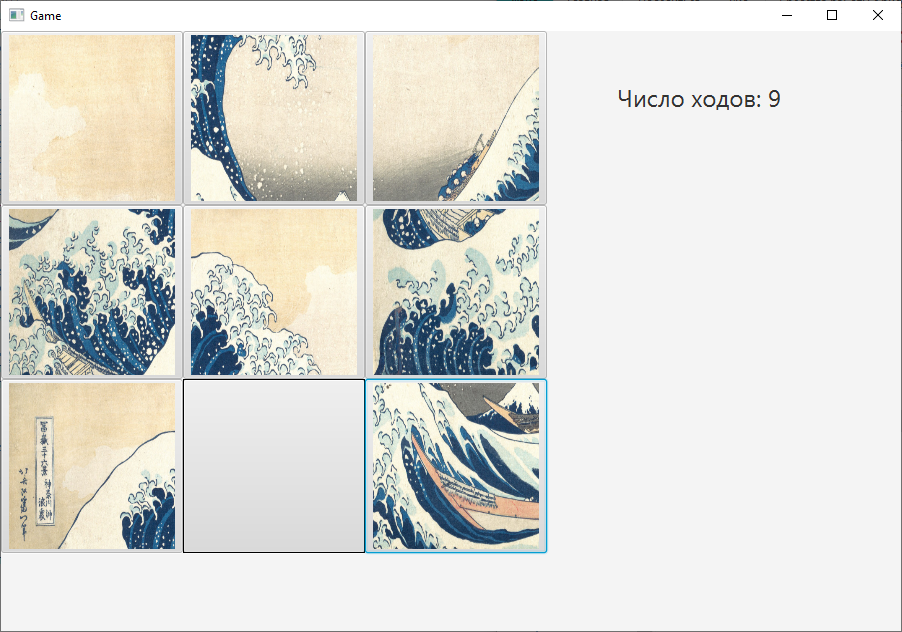
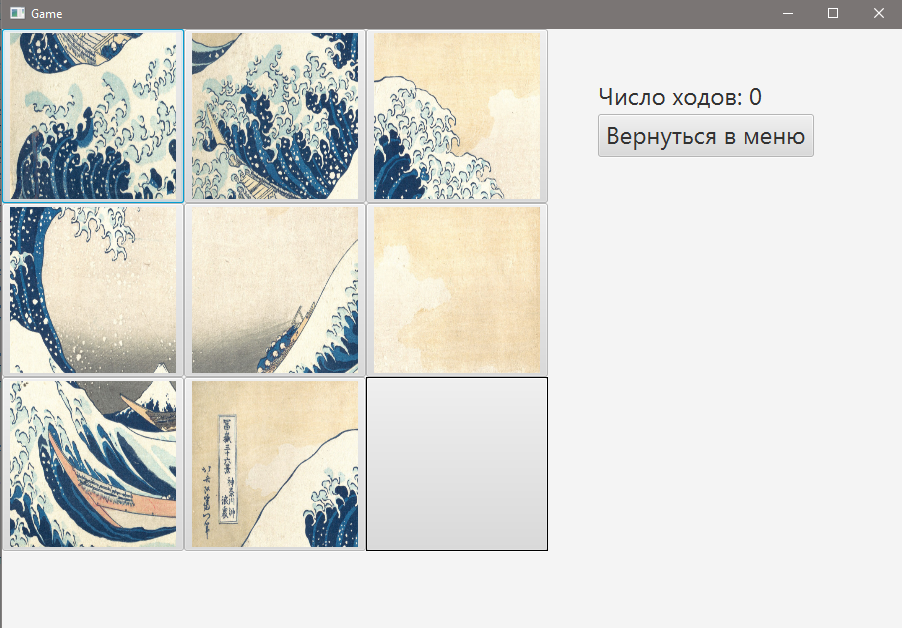
Add a move of several tiles at once & back button

diff --git a/src/finalproject/FinalProject.java b/src/finalproject/FinalProject.java
@@ -1,6 +1,7 @@
 
 package finalproject;
 
+import java.awt.Point;
 import javafx.application.Application;
 import javafx.scene.Scene;
 import javafx.scene.layout.*;
@@ -18,31 +19,38 @@ import java.util.TreeSet;
 import javafx.scene.control.TableView;
 import javafx.scene.control.TableColumn;
 import javafx.scene.control.cell.PropertyValueFactory;
+import javafx.scene.image.Image;
+import javafx.scene.image.PixelReader;
+import javafx.scene.image.WritableImage;
+import javafx.scene.image.ImageView;
 
 public class FinalProject extends Application {
-    public static GridPane game = new GridPane();
-    public static HBox root = new HBox(20);
-    public static VBox settings = new VBox(20);
-    public static VBox gameMenu = new VBox(20);
-    public static VBox score = new VBox(20);
-    private static int columns=3;//задаем кол-во столбцов
-    private static int rows = 3;//задаем кол-во строк
+    public static VBox menu = new VBox();//главное меню игры
+    public static GridPane gameField = new GridPane();//поле игры
+    public static VBox gameMenu = new VBox(20);//панель меню в игре
+    public static HBox game = new HBox(20);//игра
+    public static VBox settings = new VBox(20);//настройки
+    public static VBox score = new VBox(20);//таблица рекордов
+    
+    public static int size=3;//задаем размер игры
     private static final int WIDTH = 900;//ширина окна
     private static final int HEIGHT = 600;//высота окна
-    public static int BTN_GAME_SIZE = (HEIGHT-100)/columns;//ширина окна
+    public static int BTN_GAME_SIZE = (HEIGHT-100)/size;//ширина окна
     private final int BTN_WIDTH =200;//ширина кнопок меню
     private final int BTN_HEIGHT =50;//высота кнопок меню
-    public static VBox menu = new VBox();
+    public static String style = "-fx-font-size: 2em; ";
+    public static String styleHead = "-fx-font-size: 3em; ";
+    public static String styleGame = "-fx-font-size: 5em; -fx-border-color: #000000";
+    
     public static int clicks =0;//переменная для подсчета ходов
     public static Label currentScore = new Label("Число ходов: 0");//отображает число текущих ходов
     public static String imageName = "BigWave.jpg";
-    public static String style = "-fx-font-size: 2em; ";
-    public static String styleGame = "-fx-font-size: 5em; -fx-border-color: #000000";
-    private static boolean isNumeric = false;
+    public static boolean isNumeric = false;
+    
     
     @Override
     public void start(Stage primaryStage) {
-
+        
         //МЕНЮ
         Button playBtn = new Button ("Играть!");
         playBtn.setMaxWidth(BTN_WIDTH);
@@ -53,22 +61,28 @@ public class FinalProject extends Application {
         Button scoreBtn = new Button ("Рекорды");
         scoreBtn.setMaxWidth(BTN_WIDTH);
         scoreBtn.setStyle(style);
+        /*String backgroundPath = getClass().getResource("Images/background.jpg").toString();
+        try{
+            Image image = new Image(backgroundPath);//загружаем изображение
+            ImageView imageView = new ImageView(image);
+            menu.getChildren().add(imageView);
+            
+        } catch (Exception e) {//ловим ошибку
+            System.out.println("ОШИБКА: Загрузка изображения");
+        }*/
         menu.getChildren().addAll(playBtn, settingsBtn, scoreBtn);
         menu.setMargin(playBtn,new Insets(HEIGHT/3, WIDTH/2-BTN_WIDTH/2,20,WIDTH/2-BTN_WIDTH/2));
         menu.setMargin(settingsBtn,new Insets(20, WIDTH/2-BTN_WIDTH/2,20,WIDTH/2-BTN_WIDTH/2));
         menu.setMargin(scoreBtn,new Insets(20, WIDTH/2-BTN_WIDTH/2,20,WIDTH/2-BTN_WIDTH/2));
-        
-        //ИГРА
-        currentScore.setStyle(style);
-        //Button backBtn = new Button ("Вернуться в меню");
-        //backBtn.setStyle(style);
-        gameMenu.getChildren().addAll(currentScore);
-        gameMenu.setPadding(new Insets(50));
-        root.getChildren().addAll(game, gameMenu);
-        root.setMargin(currentScore, new Insets(20));
+        menu.setId("menu");
+        //кнопка возврата в меню из игры
+        Button backBtn = new Button ("Вернуться в меню");
+        backBtn.setStyle(style);
         
         //НАСТРОЙКИ ИГРЫ
-        //выбор размера
+        Label labelSettings = new Label("Настройки");
+        labelSettings.setStyle(styleHead);
+        //выбор размера поля
         Label labelSize = new Label("Выберите размер игры:");
         labelSize.setStyle(style);
         RadioButton threeBtn = new RadioButton("3x3");
@@ -81,8 +95,8 @@ public class FinalProject extends Application {
         Button okBtn = new Button("OK");
         okBtn.setMaxWidth(BTN_WIDTH);
         okBtn.setStyle(style);
-        settings.getChildren().addAll(labelSize, threeBtn, fourBtn);
-        settings.setPadding(new Insets(100));
+        settings.getChildren().addAll(labelSettings, labelSize, threeBtn, fourBtn);
+        settings.setPadding(new Insets(50));
         //выбор изображения
         ObservableList<String> imageList = FXCollections.observableArrayList("Большая волна", "Котик", "Цифры");
         ComboBox<String> imageComboBox = new ComboBox<String>(imageList);
@@ -111,21 +125,25 @@ public class FinalProject extends Application {
         scoreColumn.setCellValueFactory(new PropertyValueFactory<Records, Integer>("score"));
         table.getColumns().add(scoreColumn);
         table.setStyle(style);
+        table.setColumnResizePolicy(TableView.CONSTRAINED_RESIZE_POLICY);
         //заголовок
         Label labelScore = new Label("Список рекордов");
-        labelScore.setStyle(style);
+        labelScore.setStyle(styleHead);
         //кнопка возврата в меню
         Button okBtn2 = new Button("OK");
         okBtn2.setMaxWidth(BTN_WIDTH);
         okBtn2.setStyle(style);
         //страница рекордов
         score.getChildren().addAll(labelScore,table, okBtn2);
-        
+        score.setPadding(new Insets(50));
+        score.setMargin(okBtn2, new Insets(10,WIDTH/2-BTN_WIDTH/2,10,WIDTH/2-BTN_WIDTH/2));
+        score.setMargin(labelScore, new Insets(10,WIDTH/4,10,WIDTH/4));
         
         Scene sceneMenu = new Scene(menu, WIDTH, HEIGHT);
-        Scene sceneGame = new Scene (root, WIDTH, HEIGHT);
         Scene sceneSettings = new Scene (settings, WIDTH, HEIGHT);
         Scene sceneScore = new Scene (score, WIDTH, HEIGHT);
+        sceneMenu.getStylesheets().addAll(this.getClass().getResource("styles.css").toExternalForm());
+        
         
         primaryStage.setTitle("Game");
         primaryStage.setScene(sceneMenu);
@@ -134,7 +152,21 @@ public class FinalProject extends Application {
         //кнопка "Играть"
         playBtn.setOnMousePressed((MouseEvent me) -> {
             //создаем игру
-            Game game1=new Game(columns, rows, isNumeric);
+            clicks =0;
+            gameField = new GridPane();
+            Game game1=new Game();
+            addButtons();
+            //ИГРА
+            currentScore = new Label("Число ходов: 0");
+            currentScore.setStyle(style);
+            gameMenu=new VBox();
+            gameMenu.getChildren().addAll(currentScore, backBtn);
+            gameMenu.setPadding(new Insets(50));
+            game = new HBox();
+            game.getChildren().addAll(gameField, gameMenu);
+            game.setMargin(currentScore,  new Insets(20));
+            Scene sceneGame = new Scene (game, WIDTH, HEIGHT);
+            
             primaryStage.setScene(sceneGame);
             primaryStage.show();
         });
@@ -149,15 +181,13 @@ public class FinalProject extends Application {
         });
         //Выбор размера игры 3*3
         threeBtn.setOnMousePressed((MouseEvent me) -> {
-            columns = 3;
-            rows = 3;
-            BTN_GAME_SIZE = HEIGHT/columns;//обновляем размер
+            size = 3;
+            BTN_GAME_SIZE = HEIGHT/size;//обновляем размер
         });
         //Выбор размера игры 4*4
         fourBtn.setOnMousePressed((MouseEvent me) -> {
-            columns = 4;
-            rows = 4;
-            BTN_GAME_SIZE = HEIGHT/columns;//обновляем размер
+            size = 4;
+            BTN_GAME_SIZE = HEIGHT/size;//обновляем размер
         });
         //кнопка "ОК", возвращаемся в меню
         okBtn.setOnMousePressed((MouseEvent me) -> {
@@ -170,20 +200,35 @@ public class FinalProject extends Application {
         });
         //выбор картинки
         imageComboBox.setOnAction(event -> {
-                if (imageComboBox.getValue().equals("Большая волна"))
+                if (imageComboBox.getValue().equals("Большая волна")){
                     imageName = "BigWave.jpg";
-                else if (imageComboBox.getValue().equals("Котик"))
+                    isNumeric = false;
+                }
+                else if (imageComboBox.getValue().equals("Котик")){
                     imageName = "cat.jpg";
+                    isNumeric = false;
+                }
                 else if (imageComboBox.getValue().equals("Цифры"))
                     isNumeric = true;
         } );
-        /*backBtn.setOnMousePressed((MouseEvent me) -> {
+        backBtn.setOnMousePressed((MouseEvent me) -> {
             primaryStage.setScene(sceneMenu);
             primaryStage.show();
-        });*/
+        });
     }
 
+    
+    public static void addButtons (){
+        for (int i = 0; i < size; i++) {
+            for (int j = 0; j < size; j++) {
+                NewButton btn=Game.getAllButtons().get(Game.getSolution().indexOf(new Point(j, i)));//берем кнопку с текущими координатами
+                FinalProject.gameField.add(btn.getBtn(), j, i);//добавляем кнопку в узел
+            }
+        }
+    };
+    
 
+    
     public static void main(String[] args) {
         launch(args);
     }

diff --git a/src/finalproject/Game.java b/src/finalproject/Game.java
@@ -13,14 +13,6 @@ public class Game {
         return solution;
     }
 
-    public static int getCol() {
-        return col;
-    }
-
-    public static int getRow() {
-        return row;
-    }
-
     public static ArrayList<NewButton> getAllButtons() {
         return allButtons;
     }
@@ -29,24 +21,24 @@ public class Game {
     private NewButton emptyButton;//пустая кнопка
     private static ArrayList<Point> solution=new ArrayList<>();//лист с порядком координат
     private SplitPicture splitPicture;//изображение
-    private static int col;//кол-во столбцов
-    private static int row;//кол-во строк
     
-    public Game(int columns, int rows, boolean isNumeric){
-        col=columns;
-        row=rows;
+    public Game(){
+        solution.clear();
+        splitPicture = null;
+        allButtons.clear();
         
-        for(int i=0; i<row;i++){
-            for (int j=0; j<col; j++){
+        
+        for(int i=0; i<FinalProject.size;i++){
+            for (int j=0; j<FinalProject.size; j++){
                 solution.add(new Point(j, i));//создаем лист координат
             }
         }
-        if (isNumeric){
+        if (FinalProject.isNumeric){
             int number=0;
-            for (int i = 0; i < row; i++) {
-                for (int j = 0; j < col; j++) {
+            for (int i = 0; i < FinalProject.size; i++) {
+                for (int j = 0; j < FinalProject.size; j++) {
                     number++;
-                    if (i==row-1 && j==col-1){//если это последняя кнопка
+                    if (i==FinalProject.size-1 && j==FinalProject.size-1){//если это последняя кнопка
                         emptyButton = new NewButton(j, i);//создаем пустую кнопку с текущими координатами
                         emptyButton.getBtn().setMinSize(FinalProject.BTN_GAME_SIZE, FinalProject.BTN_GAME_SIZE);//задаем размер кнопки
                         allButtons.add(emptyButton);//добавляем в лист
@@ -60,12 +52,12 @@ public class Game {
             }
         }
         else{
-            splitPicture=new SplitPicture(col, row);//создаем изображение
+            splitPicture=new SplitPicture(FinalProject.size, FinalProject.size);//создаем изображение
         
-            for (int i = 0; i < row; i++) {
-                for (int j = 0; j < col; j++) {
+            for (int i = 0; i < FinalProject.size; i++) {
+                for (int j = 0; j < FinalProject.size; j++) {
                     Image img=splitPicture.getListOfImage().get(solution.indexOf(new Point(j, i)));//берем кусочек изображения с текущими координатами
-                    if (i==row-1 && j==col-1){//если это последняя кнопка
+                    if (i==FinalProject.size-1 && j==FinalProject.size-1){//если это последняя кнопка
                         emptyButton = new NewButton(j, i);//создаем пустую кнопку с текущими координатами
                         emptyButton.getBtn().setMinSize(FinalProject.BTN_GAME_SIZE+16, FinalProject.BTN_GAME_SIZE+8);//задаем размер кнопки
                         allButtons.add(emptyButton);//добавляем в лист
@@ -82,14 +74,7 @@ public class Game {
         //перемешиваем кнопки
         do{
             Collections.shuffle(allButtons.subList(0, allButtons.size()-1));
-        }while(!isSolvable());
-        
-        for (int i = 0; i < row; i++) {
-            for (int j = 0; j < col; j++) {
-                NewButton btn=allButtons.get(solution.indexOf(new Point(j, i)));//берем кнопку с текущими координатами
-                FinalProject.game.add(btn.getBtn(), j, i);//добавляем кнопку в узел
-            }
-        }
+        }while(!isSolvable());   
     }
     
     //Проверка на решаемость
@@ -100,10 +85,10 @@ public class Game {
     private boolean isSolvable() {
         int countInversions = 0;
         int I=0, J=0;
-        for (int i = 0; i < col*row-1; i++) {
+        for (int i = 0; i < Math.pow(FinalProject.size, 2); i++) {
           for (int j = 0; j < i; j++) {
-            I=allButtons.get(i).rightLocation.y*col+allButtons.get(i).rightLocation.x;
-            J=allButtons.get(j).rightLocation.y*col+allButtons.get(j).rightLocation.x;
+            I=allButtons.get(i).rightLocation.y*FinalProject.size+allButtons.get(i).rightLocation.x;
+            J=allButtons.get(j).rightLocation.y*FinalProject.size+allButtons.get(j).rightLocation.x;
             if (I<J)
               countInversions++;
           }

diff --git a/src/finalproject/NewButton.java b/src/finalproject/NewButton.java
@@ -67,9 +67,28 @@ public class NewButton {
                 }
             }
             //если (индекс нажатой - или +1) равен индексу пустой или если (индекс нажатой - или + кол-во кнопок в строке(столбцов)) равен индексу пустой
-            if ((btnIndex - 1 == emptyIndex) || (btnIndex + 1 == emptyIndex)
-                    || (btnIndex - Game.getCol() == emptyIndex) || (btnIndex + Game.getCol() == emptyIndex)) {
-                Collections.swap(buttons, btnIndex, emptyIndex);//то меняем кнопки друг с другом
+             if (btnIndex/FinalProject.size == emptyIndex/FinalProject.size ){
+                if (btnIndex<emptyIndex) 
+                    for (int i=btnIndex; i<emptyIndex;i++){
+                        Collections.swap(buttons, i, emptyIndex);//то меняем кнопки друг с другом
+                    }
+                else 
+                    for (int i=btnIndex; i>emptyIndex;i--){
+                        Collections.swap(buttons, i, emptyIndex);//то меняем кнопки друг с другом
+                    }
+                update();
+                FinalProject.clicks++;
+                FinalProject.currentScore.setText("Число ходов: "+String.valueOf(FinalProject.clicks));
+            }
+            else if ((Math.abs(btnIndex - emptyIndex))% FinalProject.size== 0){
+                if (btnIndex<emptyIndex) 
+                    for (int i=btnIndex; i<emptyIndex;i+=FinalProject.size){
+                        Collections.swap(buttons, i, emptyIndex);//то меняем кнопки друг с другом
+                    }
+                else 
+                    for (int i=btnIndex; i>emptyIndex;i-=FinalProject.size){
+                        Collections.swap(buttons, i, emptyIndex);//то меняем кнопки друг с другом
+                    }
                 update();
                 FinalProject.clicks++;
                 FinalProject.currentScore.setText("Число ходов: "+String.valueOf(FinalProject.clicks));
@@ -80,13 +99,13 @@ public class NewButton {
     
     private void update() {//обновляем поле
 
-            FinalProject.game.getChildren().clear();//очищаем корневой узел
+            FinalProject.gameField.getChildren().clear();//очищаем корневой узел
             ArrayList<NewButton> buttons=Game.getAllButtons();//лист всех кнопок
             
-            for (int i = 0; i < Game.getRow(); i++) {//идем по строкам
-                for (int j = 0; j < Game.getCol(); j++) {//идем по столбцам
+            for (int i = 0; i < FinalProject.size; i++) {//идем по строкам
+                for (int j = 0; j < FinalProject.size; j++) {//идем по столбцам
                     NewButton btn=buttons.get(Game.getSolution().indexOf(new Point(j, i)));//берем кнопку с текущими координатами
-                    FinalProject.game.add(btn.getBtn(), j, i);//добавляем в узел
+                    FinalProject.gameField.add(btn.getBtn(), j, i);//добавляем в узел
                 }
             }
             check();
@@ -97,8 +116,8 @@ public class NewButton {
         ArrayList<Point> current = new ArrayList<>();//лист с правильными координатами кнопок в текущем положении
         ArrayList<NewButton> buttons=Game.getAllButtons();//лист с кнопками
         
-        for (int i = 0; i < Game.getRow(); i++) {//идем по строкам
-                for (int j = 0; j < Game.getCol(); j++) {//идем по столбцам
+        for (int i = 0; i < FinalProject.size; i++) {//идем по строкам
+                for (int j = 0; j < FinalProject.size; j++) {//идем по столбцам
                     NewButton btn=buttons.get(Game.getSolution().indexOf(new Point(j, i)));//берем кнопку с текущими координатами
                     current.add((Point) btn.rightLocation);//добавляем в лист правильные координаты кнопок в текущем порядке
                 }
